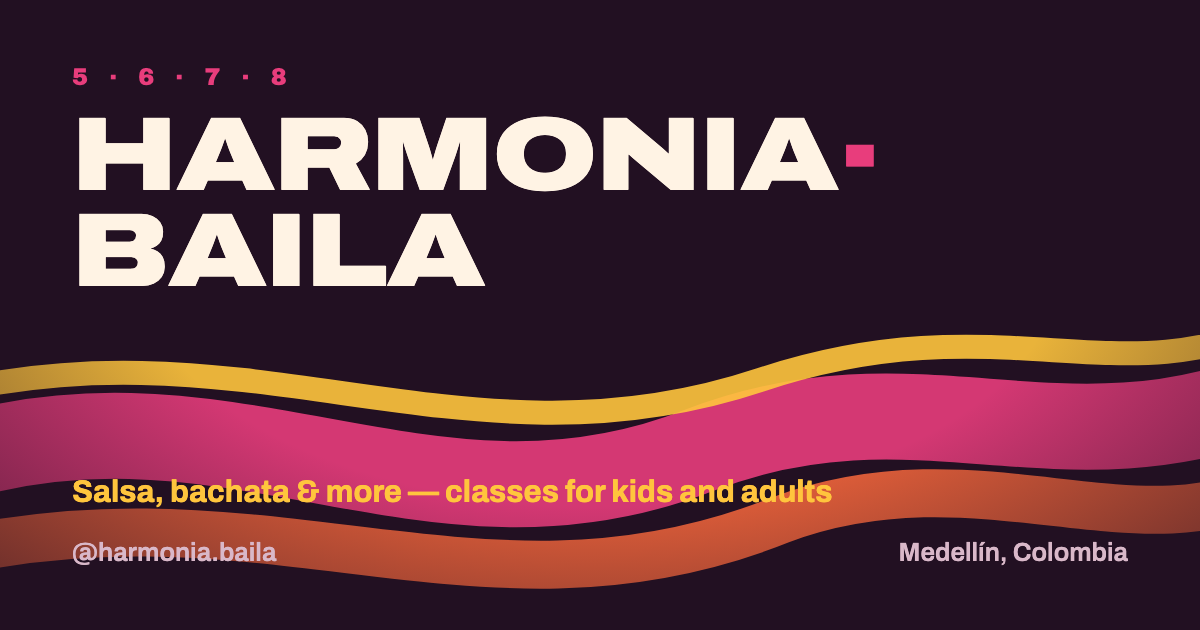
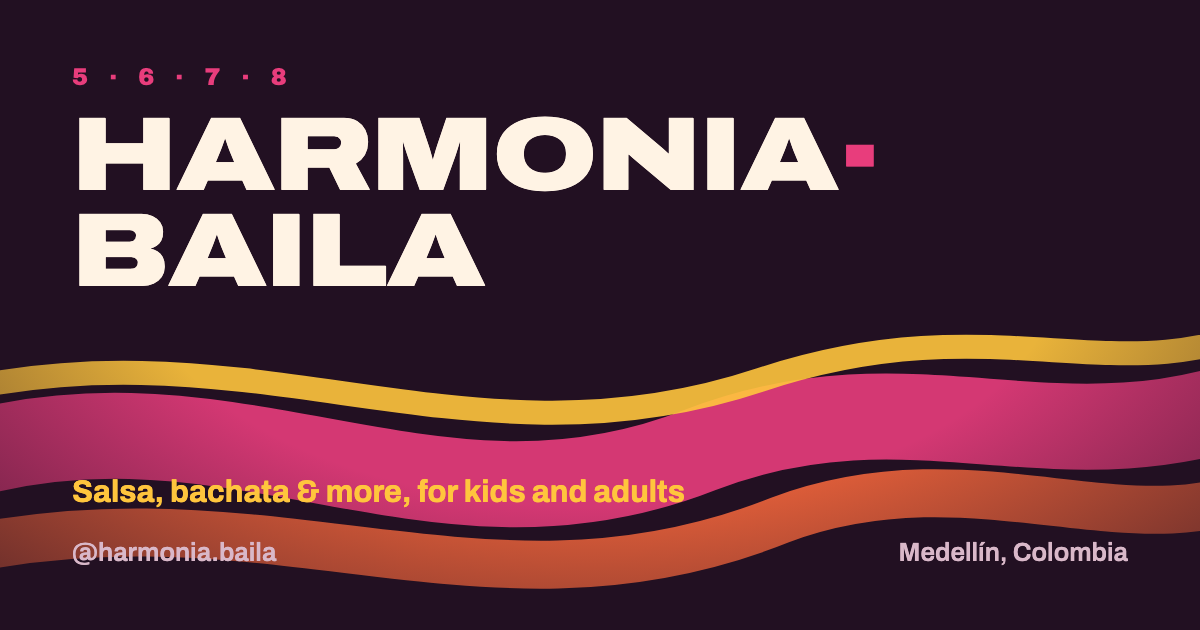
style(critique-3): taste pre-flight — zero em-dashes in visible copy, scroll cue removed, OG regenerated

Changed region(s): [[0.3392, 0.754, 0.7092, 0.8143]]

diff --git a/scripts/og-card.html b/scripts/og-card.html
@@ -30,7 +30,7 @@ h1 .dot{color:#E83D7C}
 <script>
 const es = location.search.includes('en') ? false : true;
 document.getElementById('tag').textContent = es
-  ? 'Clases de salsa, bachata y más — niños y adultos'
-  : 'Salsa, bachata & more — classes for kids and adults';
+  ? 'Clases de salsa, bachata y más, para niños y adultos'
+  : 'Salsa, bachata & more, for kids and adults';
 </script>
 </body></html>

diff --git a/app/routes/home.tsx b/app/routes/home.tsx
@@ -278,9 +278,6 @@ function Hero({ locale }: { locale: Locale }) {
           </Link>
         </m.div>
       </div>
-      <p className="muted absolute bottom-6 left-1/2 -translate-x-1/2 text-xs uppercase tracking-widest" aria-hidden="true">
-        ↓ {t("home.hero.scrollHint")}
-      </p>
     </section>
   );
 }
